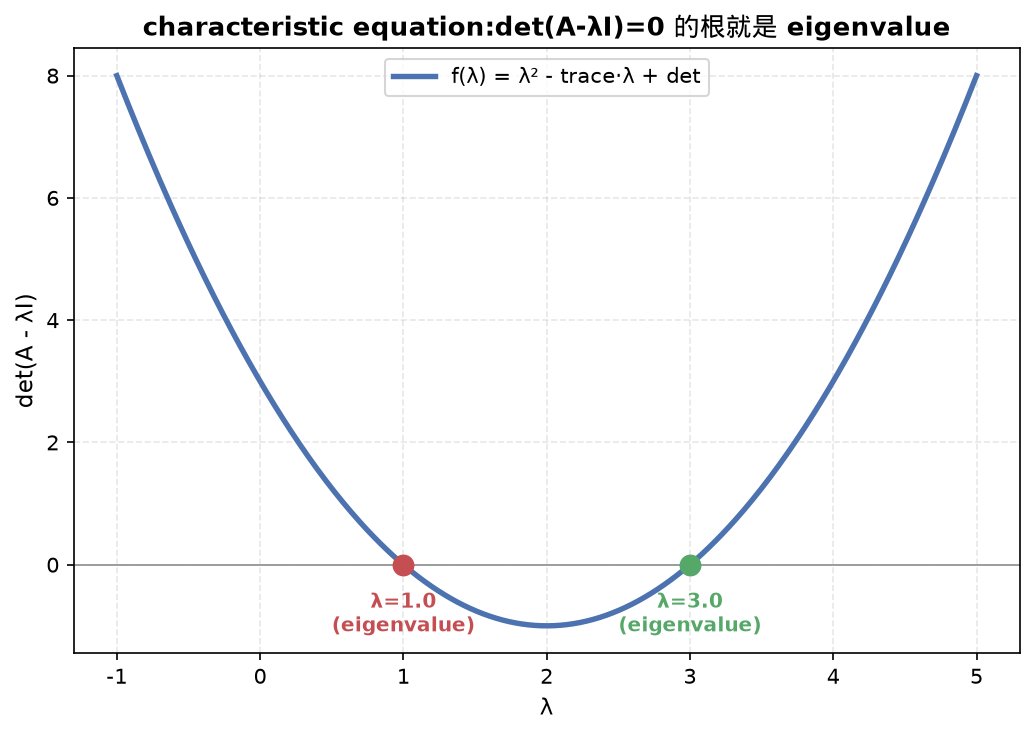
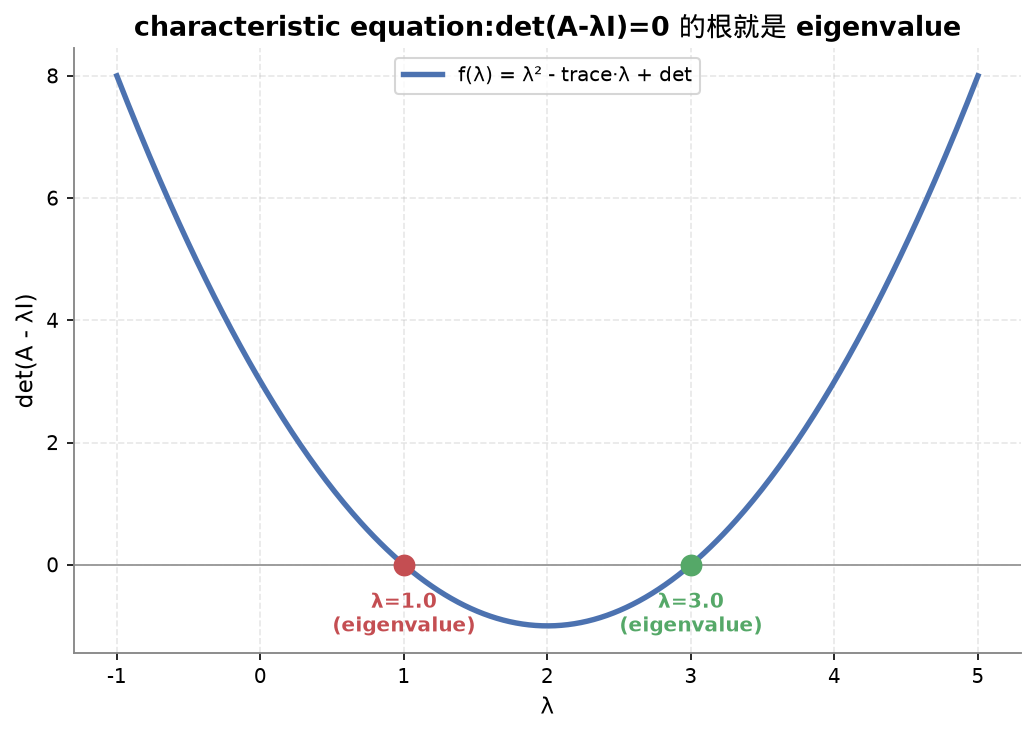
Lesson 3 diagrams: unify visual style
Regenerate with the shared plot style module.

diff --git a/01-math-foundations/03-matrix-transformations/images/make_rnn_stability_demo.py b/01-math-foundations/03-matrix-transformations/images/make_rnn_stability_demo.py
@@ -7,9 +7,10 @@ import matplotlib.font_manager as fm
 import matplotlib.pyplot as plt
 import numpy as np
 
-fm.fontManager.addfont("/usr/share/fonts/truetype/droid/DroidSansFallbackFull.ttf")
-matplotlib.rcParams["font.family"] = ["DejaVu Sans", "Droid Sans Fallback"]
-matplotlib.rcParams["axes.unicode_minus"] = False
+import sys
+sys.path.insert(0, "../../_shared")
+from plot_style import setup_style, BLUE, RED, GREEN, PURPLE, GOLD, GRAY
+setup_style()
 
 t = np.arange(0, 21)
 cases = {
@@ -26,8 +27,8 @@ ax.set_yscale("log")
 ax.set_xlabel("時間步 t(RNN反覆套用權重矩陣的次數)", fontsize=10.5)
 ax.set_ylabel("沿eigenvector方向的梯度大小 = λ^t (log scale)", fontsize=10.5)
 ax.grid(alpha=0.3, linestyle="--", which="both")
-ax.legend(fontsize=10)
-ax.set_title("RNN梯度穩定性:eigenvalue絕對值決定爆炸/消失/穩定", fontsize=12.5, fontweight="bold")
+ax.legend()
+ax.set_title("RNN梯度穩定性:eigenvalue絕對值決定爆炸/消失/穩定")
 
 plt.tight_layout()
 plt.savefig("rnn_stability.png", dpi=150, bbox_inches="tight")

diff --git a/01-math-foundations/03-matrix-transformations/images/make_eigendecomposition_demo.py b/01-math-foundations/03-matrix-transformations/images/make_eigendecomposition_demo.py
@@ -6,9 +6,10 @@ import matplotlib.font_manager as fm
 import matplotlib.pyplot as plt
 from matplotlib.patches import FancyBboxPatch, FancyArrowPatch
 
-fm.fontManager.addfont("/usr/share/fonts/truetype/droid/DroidSansFallbackFull.ttf")
-matplotlib.rcParams["font.family"] = ["DejaVu Sans", "Droid Sans Fallback"]
-matplotlib.rcParams["axes.unicode_minus"] = False
+import sys
+sys.path.insert(0, "../../_shared")
+from plot_style import setup_style, BLUE, RED, GREEN, PURPLE, GOLD, GRAY
+setup_style()
 
 fig, ax = plt.subplots(figsize=(13, 4))
 ax.set_xlim(0, 13)
@@ -49,7 +50,7 @@ for i, (title, desc, color) in enumerate(steps):
 
 ax.text(12.5, 2.1, "= A", fontsize=18, fontweight="bold", color="#333333", va="center")
 
-ax.set_title("Eigendecomposition: A = V @ D @ V⁻¹  (輸入向量從右邊套用起)", fontsize=14, fontweight="bold", pad=14)
+ax.set_title("Eigendecomposition: A = V @ D @ V⁻¹  (輸入向量從右邊套用起)", pad=14)
 plt.tight_layout()
 plt.savefig("eigendecomposition_pipeline.png", dpi=150, bbox_inches="tight")
 print("saved")

diff --git a/01-math-foundations/03-matrix-transformations/images/make_singular_matrix_demo.py b/01-math-foundations/03-matrix-transformations/images/make_singular_matrix_demo.py
@@ -6,9 +6,10 @@ import matplotlib.font_manager as fm
 import matplotlib.pyplot as plt
 import numpy as np
 
-fm.fontManager.addfont("/usr/share/fonts/truetype/droid/DroidSansFallbackFull.ttf")
-matplotlib.rcParams["font.family"] = ["DejaVu Sans", "Droid Sans Fallback"]
-matplotlib.rcParams["axes.unicode_minus"] = False
+import sys
+sys.path.insert(0, "../../_shared")
+from plot_style import setup_style, BLUE, RED, GREEN, PURPLE, GOLD, GRAY
+setup_style()
 
 unit_square = np.array([[0, 0], [1, 0], [1, 1], [0, 1], [0, 0]])
 A = np.array([[2, 1], [4, 2]])  # det = 4-4 = 0
@@ -32,8 +33,8 @@ ax.set_xlim(-3, 5)
 ax.set_ylim(-3, 3)
 ax.set_aspect("equal")
 ax.grid(alpha=0.3, linestyle="--")
-ax.legend(fontsize=8.5, loc="upper left")
-ax.set_title("singular matrix(奇異矩陣):det=0,空間被壓扁成一條線", fontsize=12.5, fontweight="bold")
+ax.legend(loc="upper left")
+ax.set_title("singular matrix(奇異矩陣):det=0,空間被壓扁成一條線")
 
 plt.tight_layout()
 plt.savefig("singular_matrix.png", dpi=150, bbox_inches="tight")

diff --git a/01-math-foundations/03-matrix-transformations/images/make_pca_direction_demo.py b/01-math-foundations/03-matrix-transformations/images/make_pca_direction_demo.py
@@ -6,9 +6,10 @@ import matplotlib.font_manager as fm
 import matplotlib.pyplot as plt
 import numpy as np
 
-fm.fontManager.addfont("/usr/share/fonts/truetype/droid/DroidSansFallbackFull.ttf")
-matplotlib.rcParams["font.family"] = ["DejaVu Sans", "Droid Sans Fallback"]
-matplotlib.rcParams["axes.unicode_minus"] = False
+import sys
+sys.path.insert(0, "../../_shared")
+from plot_style import setup_style, BLUE, RED, GREEN, PURPLE, GOLD, GRAY
+setup_style()
 
 rng = np.random.default_rng(7)
 transform = np.array([[2.2, 1.1], [0.3, 0.6]])
@@ -37,8 +38,8 @@ ax.axhline(0, color="#bbbbbb", lw=0.6)
 ax.axvline(0, color="#bbbbbb", lw=0.6)
 ax.set_aspect("equal")
 ax.grid(alpha=0.3, linestyle="--")
-ax.legend(fontsize=8.5, loc="upper left")
-ax.set_title("PCA:協方差矩陣的eigenvector就是主成分方向", fontsize=12.5, fontweight="bold")
+ax.legend(loc="upper left")
+ax.set_title("PCA:協方差矩陣的eigenvector就是主成分方向")
 
 plt.tight_layout()
 plt.savefig("pca_direction.png", dpi=150, bbox_inches="tight")

diff --git a/01-math-foundations/03-matrix-transformations/images/make_characteristic_equation_demo.py b/01-math-foundations/03-matrix-transformations/images/make_characteristic_equation_demo.py
@@ -10,9 +10,10 @@ import sys
 sys.path.insert(0, "..")
 from reference import eigenvalues_2x2  # noqa: E402
 
-fm.fontManager.addfont("/usr/share/fonts/truetype/droid/DroidSansFallbackFull.ttf")
-matplotlib.rcParams["font.family"] = ["DejaVu Sans", "Droid Sans Fallback"]
-matplotlib.rcParams["axes.unicode_minus"] = False
+import sys
+sys.path.insert(0, "../../_shared")
+from plot_style import setup_style, BLUE, RED, GREEN, PURPLE, GOLD, GRAY
+setup_style()
 
 A = np.array([[2, 1], [1, 2]])
 trace = A[0, 0] + A[1, 1]
@@ -33,8 +34,8 @@ for l, c in zip([lam1, lam2], ["#C44E52", "#55A868"]):
 ax.set_xlabel("λ", fontsize=11)
 ax.set_ylabel("det(A - λI)", fontsize=11)
 ax.grid(alpha=0.3, linestyle="--")
-ax.legend(fontsize=10)
-ax.set_title("characteristic equation:det(A-λI)=0 的根就是 eigenvalue", fontsize=12.5, fontweight="bold")
+ax.legend()
+ax.set_title("characteristic equation:det(A-λI)=0 的根就是 eigenvalue")
 
 plt.tight_layout()
 plt.savefig("characteristic_equation.png", dpi=150, bbox_inches="tight")

diff --git a/01-math-foundations/03-matrix-transformations/images/make_composition_order_demo.py b/01-math-foundations/03-matrix-transformations/images/make_composition_order_demo.py
@@ -6,9 +6,10 @@ import matplotlib.font_manager as fm
 import matplotlib.pyplot as plt
 import numpy as np
 
-fm.fontManager.addfont("/usr/share/fonts/truetype/droid/DroidSansFallbackFull.ttf")
-matplotlib.rcParams["font.family"] = ["DejaVu Sans", "Droid Sans Fallback"]
-matplotlib.rcParams["axes.unicode_minus"] = False
+import sys
+sys.path.insert(0, "../../_shared")
+from plot_style import setup_style, BLUE, RED, GREEN, PURPLE, GOLD, GRAY
+setup_style()
 
 rot90 = np.array([[0, -1], [1, 0]])
 scale = np.array([[1, 0], [0, 0.5]])
@@ -45,8 +46,7 @@ draw_path(axes[1], [p, mid2, final2], ["p=(1,1)", "先縮放y*0.5", "再轉90°"
 
 f1 = tuple(float(v) for v in np.round(final1, 2))
 f2 = tuple(float(v) for v in np.round(final2, 2))
-fig.suptitle(f"複合變換順序影響結果:{f1} vs {f2}",
-             fontsize=13, fontweight="bold")
+fig.suptitle(f"複合變換順序影響結果:{f1} vs {f2}")
 plt.tight_layout()
 plt.savefig("composition_order_matters.png", dpi=150, bbox_inches="tight")
 print("saved")
